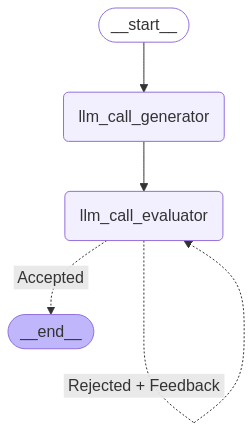
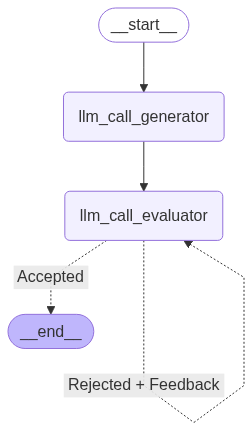
refactor: apply llm factory to optimizer of workflow

diff --git a/workflows/evaluator_optimizer/builder.py b/workflows/evaluator_optimizer/builder.py
@@ -1,65 +1,71 @@
 from langgraph.graph import StateGraph, START, END
 
-from llms.ollama import OllamaChain
 from workflows.evaluator_optimizer.models.feedback import Feedback
 from workflows.evaluator_optimizer.models.state import State
 
-llm = OllamaChain(temperature=0).llm
-evaluator = OllamaChain(temperature=0, structured=Feedback).llm
+from llms.llm import LLM
+from models.llm_settings import LLMSettings
+from models.settings_request import SettingsRequest
+from langgraph.checkpoint.memory import InMemorySaver
 
-def llm_call_generator(state:State):
-    """LLM generates a joke"""
+from workflows.evaluator_optimizer.nodes.evaluator_node import EvaluatorNode
+from workflows.evaluator_optimizer.nodes.generator_node import GeneratorNode
+from workflows.evaluator_optimizer.nodes.route_joke_node import RouteJokeNode
 
-    if state.get('feedback'):
-        msg = llm.invoke(
-            f"Write a joke about {state['topic']} but take into account the feedback: {state['feedback']}"
+from dotenv import load_dotenv
+import traceback
+
+# load environment variables
+load_dotenv()
+
+async def build_graph(request: SettingsRequest):
+    try:
+        
+        llm_settings = LLMSettings()
+        llm_settings.model_name = request.model_name
+        llm_settings.temperature = request.temperature
+        llm_settings.streaming = request.is_streaming
+        
+        llm = LLM()
+        chain_generator = llm.create_chain(llm_settings)
+
+        llm_settings.structured = Feedback
+        chain_evaluator = llm.create_chain(llm_settings)
+
+        evaluator = EvaluatorNode(chain_evaluator)
+        generator = GeneratorNode(chain_generator)
+        route_joke = RouteJokeNode()
+
+        # Build
+        builder = StateGraph(State)
+
+        # Add nodes
+        builder.add_node("llm_call_generator", generator.node)
+        builder.add_node("llm_call_evaluator", evaluator.node)
+
+        # Add edges
+        builder.add_edge(START, "llm_call_generator")
+        builder.add_edge("llm_call_generator", "llm_call_evaluator")
+        builder.add_conditional_edges(
+            "llm_call_evaluator",
+            route_joke.node,
+            {
+                "Accepted": END,
+                "Rejected + Feedback": "llm_call_evaluator"
+            }
         )
-    else:
-        msg = llm.invoke(f"Write a joke about {state['topic']}")
 
-    return {"joke":msg.content}
+        # To support specific thread for get state from graph
+        memory = InMemorySaver()
+        graph = builder.compile(checkpointer=memory)
 
-def llm_call_evaluator(state: State):
-    """LLM evaluates the joke"""
+        # Show the workflow
+        img_data = graph.get_graph().draw_mermaid_png()
+        with open('./output/graph-evaluator-optimizer.png', 'wb') as f:
+            f.write(img_data)
+            print("Graph image saved successfully!")
 
-    print('------------ llm_call_evaluator ------------')
-    grade = evaluator.invoke(f"Grade the joke {state['joke']}")
-    print(grade)
-    return {
-        "funny_or_not": grade.grade,
-        "feedback": grade.feedback
-    }
-
-def route_joke(state: State):
-    """Route back to joke generator or end based upon feedback from the evaluator"""
-
-    if state["funny_or_not"] == "funny":
-        return "Accepted"
-    elif state["funny_or_not"] == "not funny":
-        return "Rejected + Feedback"
-
-# Build
-optimizer_builder = StateGraph(State)
-
-# Add nodes
-optimizer_builder.add_node("llm_call_generator", llm_call_generator)
-optimizer_builder.add_node("llm_call_evaluator", llm_call_evaluator)
-
-# Add edges
-optimizer_builder.add_edge(START, "llm_call_generator")
-optimizer_builder.add_edge("llm_call_generator", "llm_call_evaluator")
-optimizer_builder.add_conditional_edges(
-    "llm_call_evaluator",
-    route_joke,
-    {
-        "Accepted": END,
-        "Rejected + Feedback": "llm_call_evaluator"
-    }
-)
-
-graph = optimizer_builder.compile()
-
-img_data = graph.get_graph().draw_mermaid_png()
-with open('./output/graph-evaluator-optimizer.png', 'wb') as f:
-    f.write(img_data)
-    print("Graph image saved successfully!")
+        return graph
+    except Exception as e:
+        print(f'In build graph error: {traceback.format_exc()}')
+        raise e

diff --git a/workflows/routing/builder.py b/workflows/routing/builder.py
@@ -9,7 +9,9 @@ import traceback
 
 from workflows.mcp_integration.models.state import State
 from workflows.routing.models.route import Route
-from workflows.routing.nodes.llm_route_node import LlmRouteNode
+from workflows.routing.nodes.general_node import GeneralNode
+from workflows.routing.nodes.route_decision_node import RouteDecisionNode
+from workflows.routing.nodes.routing_node import RouterNode
 
 # load environment variables
 load_dotenv()
@@ -28,19 +30,21 @@ async def build_graph(request: SettingsRequest):
         llm_settings.structured = Route
         chain_route = llm.create_chain(llm_settings)
 
-        llm_route_node = LlmRouteNode(chain_general, chain_route)
+        general = GeneralNode(chain_general)
+        router = RouterNode(chain_route)
+        route_decision = RouteDecisionNode()
         
         builder = StateGraph(State)
-        builder.add_node("llm_call_router", llm_route_node.llm_call_router)
-        builder.add_node('llm_call_1', llm_route_node.llm_call_1)
-        builder.add_node("llm_call_2", llm_route_node.llm_call_2)
-        builder.add_node("llm_call_3", llm_route_node.llm_call_3)
+        builder.add_node("llm_call_router", router.node)
+        builder.add_node('llm_call_1', general.llm_call_1)
+        builder.add_node("llm_call_2", general.llm_call_2)
+        builder.add_node("llm_call_3", general.llm_call_3)
         
         # Add edges to connect nodes
         builder.add_edge(START, "llm_call_router")
         builder.add_conditional_edges(
             "llm_call_router",
-            llm_route_node.route_decision,
+            route_decision.node,
             {  # Name returned by route_decision : Name of next node to visit
                 "llm_call_1": "llm_call_1",
                 "llm_call_2": "llm_call_2",

diff --git a/workflows/routing/nodes/general_node.py b/workflows/routing/nodes/general_node.py
@@ -1,0 +1,51 @@
+from llms.llm_provider import LLMProvider
+from workflows.routing.models.state import State
+
+class GeneralNode:
+    
+    def __init__(self, chain:LLMProvider):
+        self.llm = chain.llm
+
+    def llm_call_1(self, state: State):
+        """Write a story"""
+        print(f'input: {state["input"]}')
+        print('select: llm_call_1')
+        result = self.llm.invoke(state["input"])
+        if isinstance(result, str):
+            return { "messages": [{ "content": result }] }
+        else:
+            return {
+                "messages": [{
+                    "content": result.content
+                }]
+            }
+
+
+    def llm_call_2(self, state: State):
+        """Write a joke"""
+        print(f'input: {state["input"]}')
+        print('select: llm_call_2')
+        result = self.llm.invoke(state["input"])
+        if isinstance(result, str):
+            return { "messages": [{ "content": result }] }
+        else:
+            return {
+                "messages": [{
+                    "content": result.content
+                }]
+            }
+
+
+    def llm_call_3(self, state: State):
+        """Write a poem"""
+        print(f'input: {state["input"]}')
+        print('select: llm_call_3')
+        result = self.llm.invoke(state["input"])
+        if isinstance(result, str):
+            return { "messages": [{ "content": result }] }
+        else:
+            return {
+                "messages": [{
+                    "content": result.content
+                }]
+            }

diff --git a/routers/chat.py b/routers/chat.py
@@ -3,6 +3,7 @@ from fastapi.responses import StreamingResponse, JSONResponse
 from models.chat_request import ChatRequest
 from models.settings_request import SettingsRequest
 from workflows.mcp_integration.builder import build_graph as build_graph_mcp
+from workflows.evaluator_optimizer.builder import build_graph as build_graph_optimizer
 from workflows.routing.builder import build_graph as build_graph_routing
 import asyncio
 
@@ -95,7 +96,9 @@ async def stream_graph_updates(thread_id: str, request: ChatRequest):
 @router.post("/setting/{thread_id}")
 async def update_setting(request: SettingsRequest, thread_id:str):
     try:
-        if request.use_agent == "routing":
+        if request.use_agent == "optimizer":
+            graph = await build_graph_optimizer(request)
+        elif request.use_agent == "routing":
             graph = await build_graph_routing(request)
         else:
             graph = await build_graph_mcp(request)

diff --git a/workflows/routing/nodes/routing_node.py b/workflows/routing/nodes/routing_node.py
@@ -1,0 +1,28 @@
+from llms.llm_provider import LLMProvider
+from workflows.routing.models.state import State
+from langchain_core.messages import HumanMessage, SystemMessage
+
+class RouterNode:
+    
+    def __init__(self, chain:LLMProvider):
+        self.llm = chain.llm
+
+    def node(self, state: State):
+        """Route the input to the appropriate node"""
+
+        print(state)
+        input_content = state["messages"][-1]["content"]
+        # Run the augmented LLM with structured output to serve as routing logic
+        decision = self.llm.invoke(
+            [
+                SystemMessage(
+                    content="Route the input to story, joke, or poem based on the user's request."
+                ),
+                HumanMessage(content=input_content),
+            ]
+        )
+
+        return {
+            "input": input_content,
+            "decision": decision.step
+        }

diff --git a/workflows/evaluator_optimizer/nodes/generator_node.py b/workflows/evaluator_optimizer/nodes/generator_node.py
@@ -1,0 +1,30 @@
+
+from llms.llm_provider import LLMProvider
+from workflows.evaluator_optimizer.models.state import State
+
+class GeneratorNode:
+
+    def __init__(self, chain:LLMProvider):
+        self.llm = chain.llm
+
+    def node(self, state:State):
+        """LLM generates a joke"""
+
+        print(state)
+
+        input_content = state["messages"][-1]["content"]
+        state['topic'] = input_content
+
+        if state.get('feedback'):
+            msg = self.llm.invoke(
+                f"Write a joke about {state['topic']} but take into account the feedback: {state['feedback']}"
+            )
+        else:
+            msg = self.llm.invoke(f"Write a joke about {state['topic']}")
+
+        return {
+            "joke":msg.content,
+            "messages": [{
+                "content": msg.content
+            }]
+        }

diff --git a/main.py b/main.py
@@ -5,7 +5,6 @@ from fastapi.middleware.cors import CORSMiddleware
 # from workflows.prompt_chain.handler import start_promp_chain
 # from workflows.parallelization.handler import start_parallelization
 # from workflows.orchestrator_worker.handler import start_orchestrator
-# from workflows.evaluator_optimizer.handler import start_evaluator_optimizer
 # from workflows.agent.handler import start_agent
 # from workflows.rag.agentic_ai.handler import AgenticAI
 # from workflows.sql.postgres.handler import OllamaPostgreSQLAgent
@@ -26,7 +25,6 @@ def create_app() -> FastAPI:
     # start_promp_chain()
     # start_parallelization()
     # start_orchestrator()
-    # start_evaluator_optimizer()
     # start_agent()
 
     # agentic_ai = AgenticAI()

diff --git a/workflows/evaluator_optimizer/nodes/evaluator_node.py b/workflows/evaluator_optimizer/nodes/evaluator_node.py
@@ -1,0 +1,19 @@
+
+from llms.llm_provider import LLMProvider
+from workflows.evaluator_optimizer.models.state import State
+
+class EvaluatorNode:
+
+    def __init__(self, chain:LLMProvider):
+        self.llm = chain.llm
+
+    def node(self, state:State):
+        """LLM evaluates the joke"""
+
+        print('------------ llm_call_evaluator ------------')
+        grade = self.llm.invoke(f"Grade the joke {state['joke']}")
+        print(grade)
+        return {
+            "funny_or_not": grade.grade,
+            "feedback": grade.feedback
+        }

diff --git a/workflows/routing/nodes/route_decision_node.py b/workflows/routing/nodes/route_decision_node.py
@@ -1,0 +1,13 @@
+from workflows.routing.models.state import State
+
+class RouteDecisionNode:
+    
+    # Conditional edge function to route to the appropriate node
+    def node(self, state: State):
+        # Return the node name you want to visit next
+        if state["decision"] == "story":
+            return "llm_call_1"
+        elif state["decision"] == "joke":
+            return "llm_call_2"
+        elif state["decision"] == "poem":
+            return "llm_call_3"

diff --git a/workflows/evaluator_optimizer/nodes/route_joke_node.py b/workflows/evaluator_optimizer/nodes/route_joke_node.py
@@ -1,0 +1,13 @@
+
+from llms.llm_provider import LLMProvider
+from workflows.evaluator_optimizer.models.state import State
+
+class RouteJokeNode:
+
+    def node(self, state: State):
+        """Route back to joke generator or end based upon feedback from the evaluator"""
+
+        if state["funny_or_not"] == "funny":
+            return "Accepted"
+        elif state["funny_or_not"] == "not funny":
+            return "Rejected + Feedback"

diff --git a/workflows/evaluator_optimizer/models/state.py b/workflows/evaluator_optimizer/models/state.py
@@ -1,6 +1,7 @@
-from typing import TypedDict
+from typing import Any, TypedDict
 
 class State(TypedDict):
+    messages: Any
     joke: str
     topic: str
     feedback: str

diff --git a/workflows/routing/models/state.py b/workflows/routing/models/state.py
@@ -5,4 +5,3 @@ class State(TypedDict):
     messages: Any
     input: str
     decision: str
-    output: str
